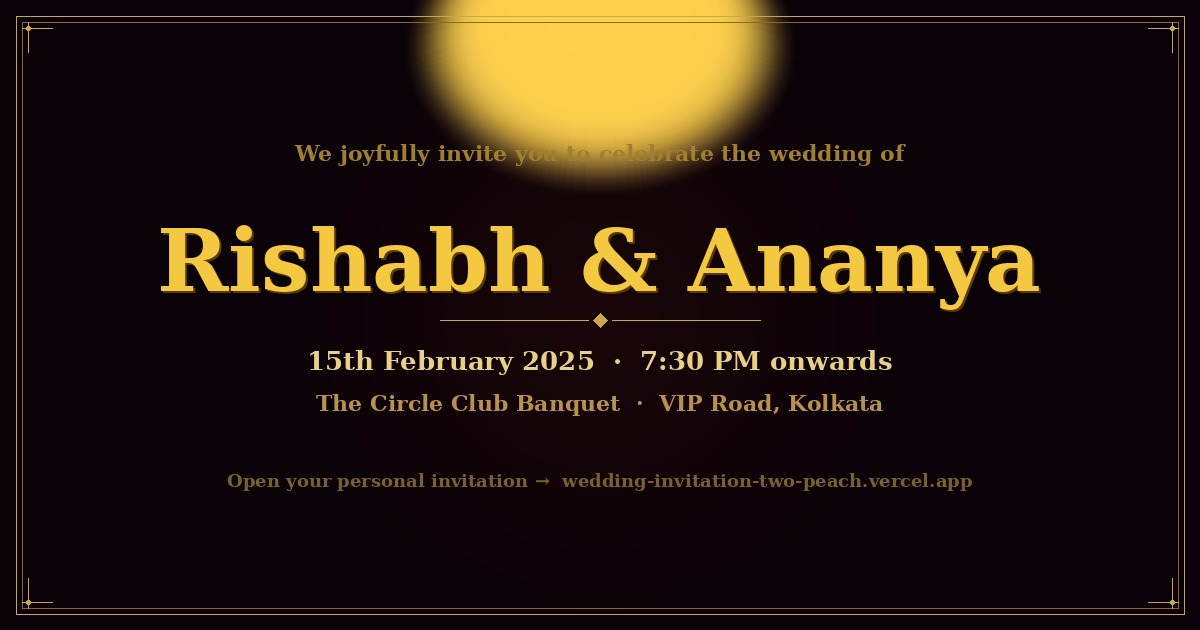
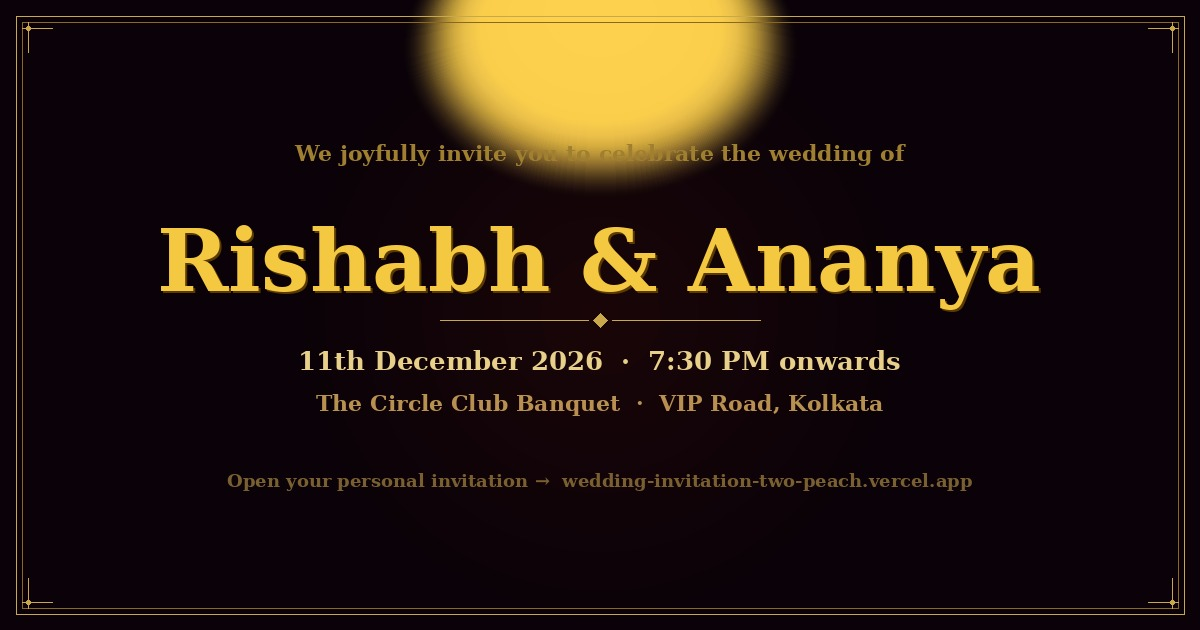
Update wedding date to 11th December 2026
Fix OG meta description and preview image date from Feb 2025 to Dec 2026.

Claude-Session: https://claude.ai/code/session_015EnE4JJMMQb6fbtxPmtVBr

Changed region(s): [[0.2467, 0.5429, 0.7708, 0.6032]]

diff --git a/index.html b/index.html
@@ -57,13 +57,13 @@
 <meta property="og:type" content="website">
 <meta property="og:url" content="https://wedding-invitation-two-peach.vercel.app">
 <meta property="og:title" content="Rishabh &amp; Ananya are getting married! 🌸">
-<meta property="og:description" content="We joyfully invite you to celebrate our wedding — 15th February 2025, 7:30 PM onwards · The Circle Club Banquet, Kolkata">
+<meta property="og:description" content="We joyfully invite you to celebrate our wedding — 11th December 2026, 7:30 PM onwards · The Circle Club Banquet, Kolkata">
 <meta property="og:image" content="https://wedding-invitation-two-peach.vercel.app/og-preview.jpg">
 <meta property="og:image:width" content="1200">
 <meta property="og:image:height" content="630">
 <meta name="twitter:card" content="summary_large_image">
 <meta name="twitter:title" content="Rishabh &amp; Ananya are getting married! 🌸">
-<meta name="twitter:description" content="We joyfully invite you to celebrate our wedding — 15th February 2025, 7:30 PM onwards · The Circle Club Banquet, Kolkata">
+<meta name="twitter:description" content="We joyfully invite you to celebrate our wedding — 11th December 2026, 7:30 PM onwards · The Circle Club Banquet, Kolkata">
 <meta name="twitter:image" content="https://wedding-invitation-two-peach.vercel.app/og-preview.jpg">
 <link rel="preconnect" href="https://fonts.googleapis.com">
 <link rel="preconnect" href="https://fonts.gstatic.com" crossorigin>
